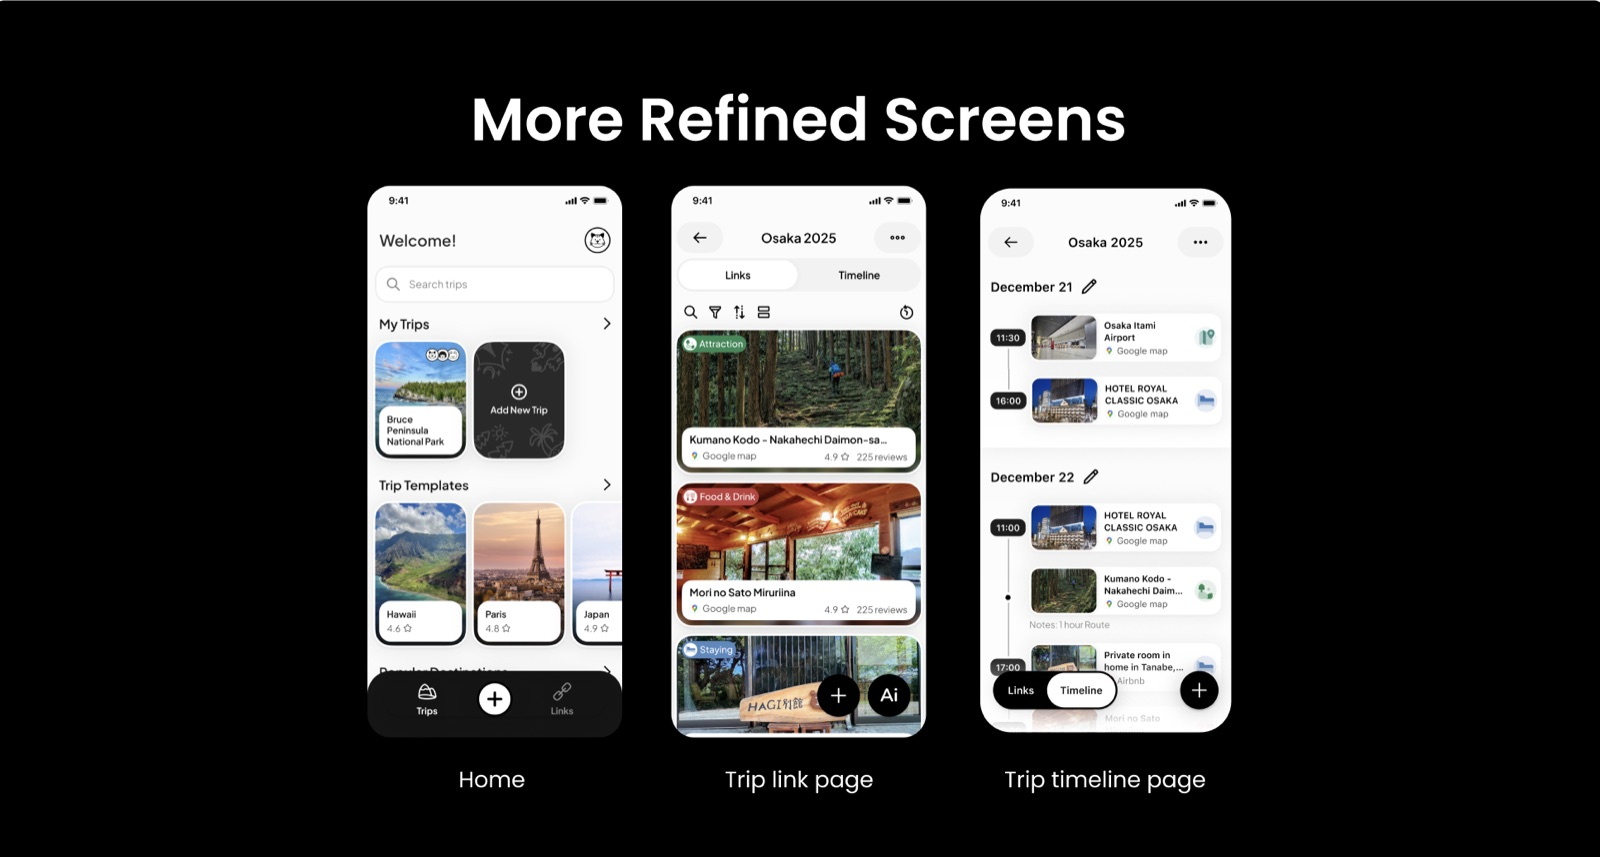
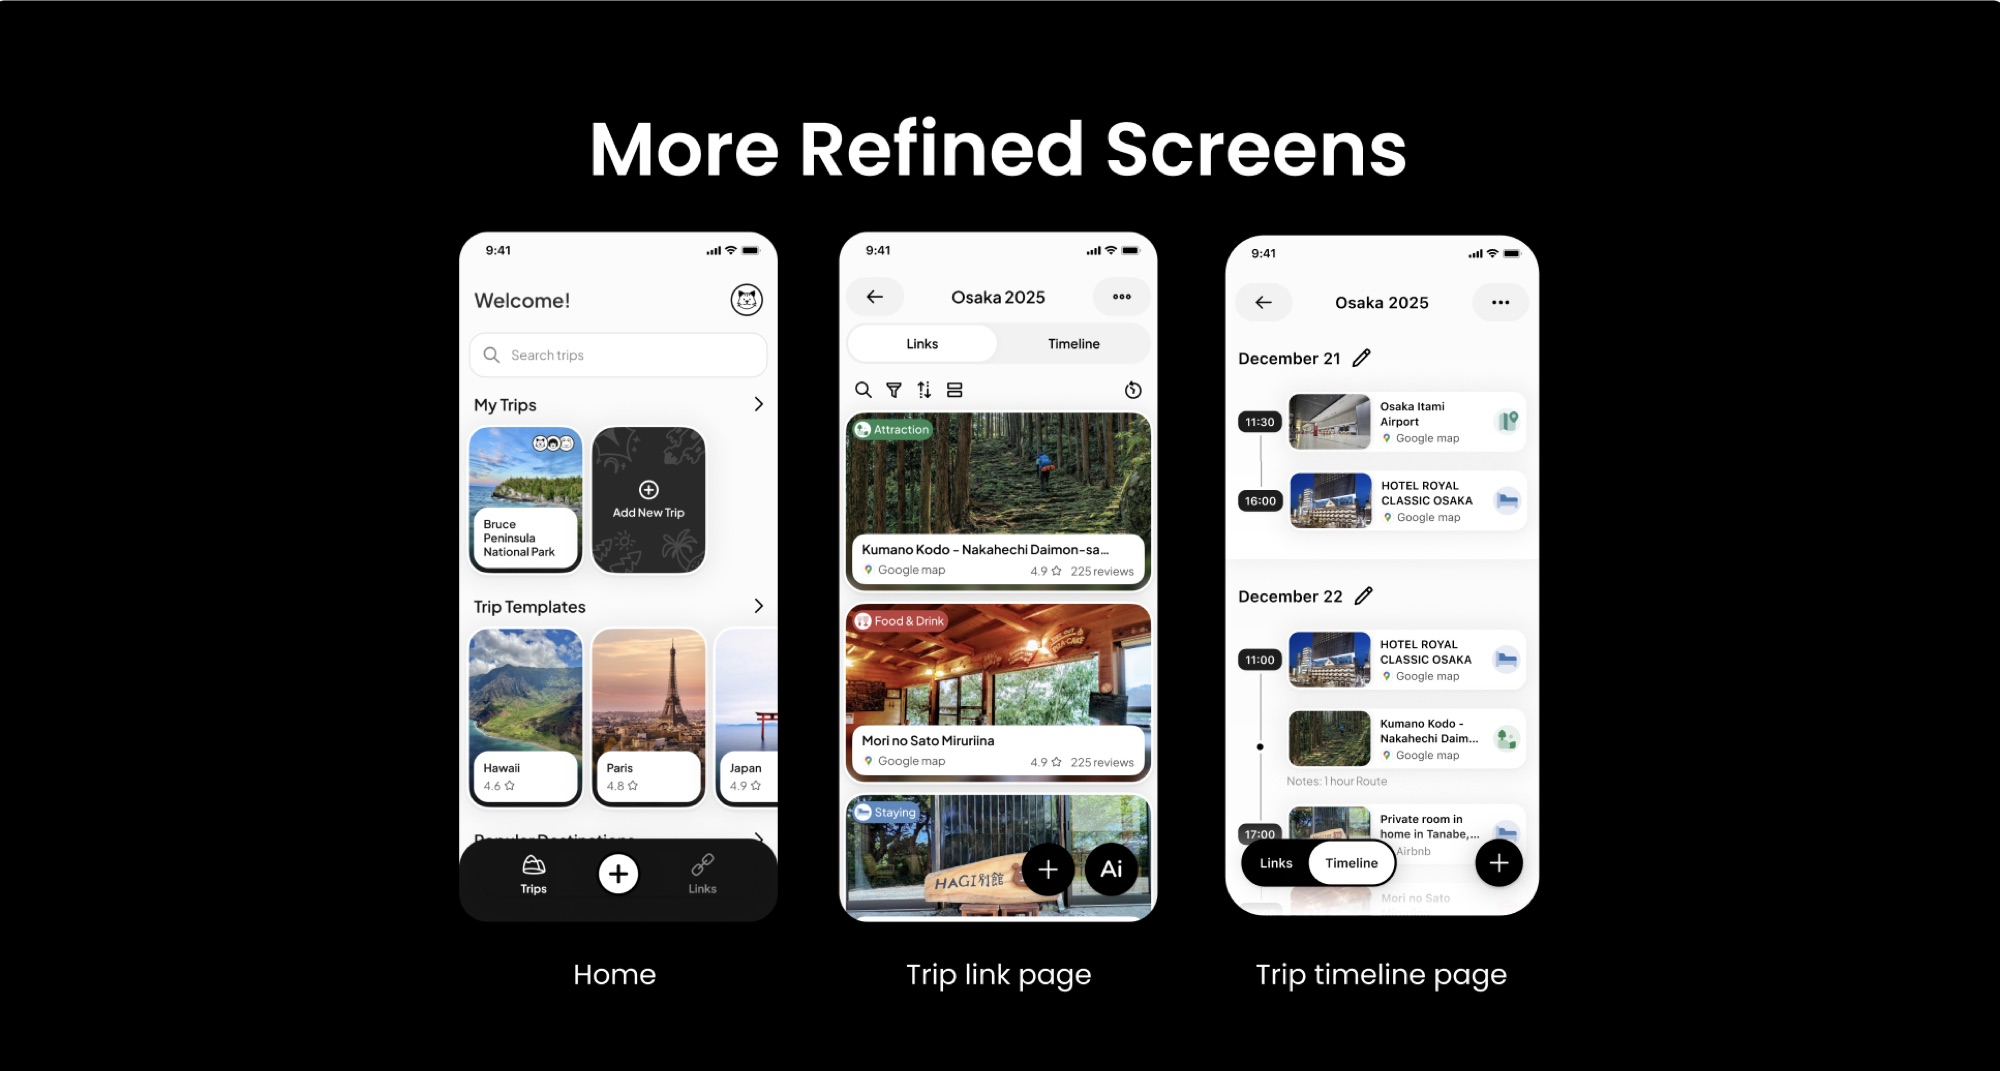
feat(simple): replace Linkly card media with full 13-slide case study
Swap the 5 old linkly images for 13 optimized slides (problem, research,
two personas, solution, wireframes, flows, view modes, AI filter) and
update the card stack + lightbox captions accordingly.

diff --git a/app/page.tsx b/app/page.tsx
@@ -1036,7 +1036,7 @@ const OFF_CLOCK: OcProject[] = [
     blurb:
       'Trips are planned in links: maps, posts, screenshots, group chats. Linkly catches them, sorts them by trip and lays them out on a timeline. From interviews to persona to flows to refined screens.',
     emoji: '✈',
-    stack: [`${OC}/linkly/cover.jpg`, `${OC}/linkly/flow.jpg`, `${OC}/linkly/screens.jpg`],
+    stack: [`${OC}/linkly/cover.jpg`, `${OC}/linkly/create-trip.jpg`, `${OC}/linkly/screens.jpg`],
     media: [
       {
         kind: 'image',
@@ -1045,24 +1045,69 @@ const OFF_CLOCK: OcProject[] = [
       },
       {
         kind: 'image',
-        src: `${OC}/linkly/research.jpg`,
+        src: `${OC}/linkly/problem.jpg`,
         caption:
-          'What travelers said. Scattered information, no structure, and collaboration that falls apart in group chats.',
+          'The problem. Group trip planning is chaotic: scattered links, messy collaboration, no structure and platform lock-in.',
       },
       {
         kind: 'image',
-        src: `${OC}/linkly/persona.jpg`,
+        src: `${OC}/linkly/research.jpg`,
+        caption:
+          'What travelers said. Big Google Docs that stop working, and apps that want to plan from scratch when people just need their links sorted.',
+      },
+      {
+        kind: 'image',
+        src: `${OC}/linkly/persona-jason.jpg`,
+        caption:
+          'Jason, the casual contributor. Drops links in chat and wants a one-tap way to react without logging into anything.',
+      },
+      {
+        kind: 'image',
+        src: `${OC}/linkly/persona-amanda.jpg`,
         caption: 'Amanda, the default organizer. She wants control without spreadsheet-grade overhead.',
       },
       {
         kind: 'image',
-        src: `${OC}/linkly/flow.jpg`,
+        src: `${OC}/linkly/solution.jpg`,
+        caption:
+          'The answer. An AI organizer that turns scattered travel links into a clean, shareable library and timeline.',
+      },
+      {
+        kind: 'image',
+        src: `${OC}/linkly/wireframe.jpg`,
+        caption: 'Wireframes. Trips, links, link details, adding and filtering.',
+      },
+      {
+        kind: 'image',
+        src: `${OC}/linkly/create-trip.jpg`,
         caption: 'Creating a trip. Name it, date it, invite people, then just drop your links.',
+      },
+      {
+        kind: 'image',
+        src: `${OC}/linkly/trip-links.jpg`,
+        caption: 'The trip link board. Every saved place as a card, with AI functions a tap away.',
+      },
+      {
+        kind: 'image',
+        src: `${OC}/linkly/trip-timeline.jpg`,
+        caption:
+          'The timeline. Days, stops and link cards in order, with AI to check conflicts and summarize the trip.',
+      },
+      {
+        kind: 'image',
+        src: `${OC}/linkly/view-modes.jpg`,
+        caption: 'View modes. The same links as full cards, a grid, compact rows or a list.',
       },
       {
         kind: 'image',
         src: `${OC}/linkly/screens.jpg`,
         caption: 'Refined screens. Home, the trip link board and the trip timeline.',
+      },
+      {
+        kind: 'image',
+        src: `${OC}/linkly/ai-filter.jpg`,
+        caption:
+          'AI filter, v1. Name a filter, describe the condition in plain words, get a reusable set of filter chips.',
       },
     ],
   },
